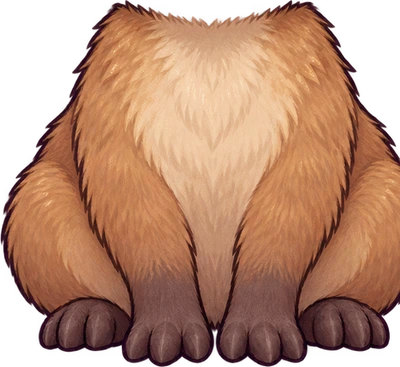
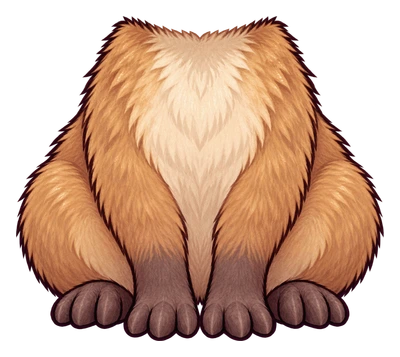
Restore complete Capybara, Quokka and Panda bodies with safe animation margins

diff --git a/CompanionArt.jsx b/CompanionArt.jsx
@@ -2,4 +2,4 @@ import artManifest from './public/companions-v2/art-manifest.json';
 import {companions} from './adventure-model.mjs';
 import React from 'react';
 const base='/companions-v2/';
-export default function CompanionArt({kind='bird',celebrate=false,finale=false,mood='milestone'}){const k=companions.includes(kind)?kind:'bird';return <span className={'journey-companion companion-rig mood-'+mood+' '+k+(celebrate?' celebrating':'')+(finale?' finale':'')} aria-hidden="true"><span className="companion-shadow"/><span className="companion-puppet">{k==='quokka'&&<span className="part tail"><img src={base+k+'-tail.webp?v='+artManifest.find(a=>a.file===k+'-tail.webp')?.sha256.slice(0,12)} alt=""/></span>}{!['capybara','guinea-pig','quokka'].includes(k)&&<img className="part tail" src={base+k+'-tail.webp?v='+artManifest.find(a=>a.file===k+'-tail.webp')?.sha256.slice(0,12)} alt=""/>}<img className="part body" src={base+k+'-body.webp'} alt=""/>{k==='bird'&&<img className="part wing" src={base+'bird-wing.webp'} alt=""/>}<span className="part head"><img className="eyes-open" src={base+k+'-head.webp'} alt=""/>{k!=='bird'&&<img className="eyes-happy" src={base+k+'-head-happy.webp'} alt=""/>}</span></span>{(finale||mood==='delight')&&<span className="companion-stars">✧ ✦ ✧</span>}{finale&&<span className="companion-confetti">{Array.from({length:12},(_,i)=><i key={i} style={{'--spark':i}}/>)}</span>}</span>}
+export default function CompanionArt({kind='bird',celebrate=false,finale=false,mood='milestone'}){const k=companions.includes(kind)?kind:'bird';return <span className={'journey-companion companion-rig mood-'+mood+' '+k+(celebrate?' celebrating':'')+(finale?' finale':'')} aria-hidden="true"><span className="companion-shadow"/><span className="companion-puppet">{k==='quokka'&&<span className="part tail"><img src={base+k+'-tail.webp?v='+artManifest.find(a=>a.file===k+'-tail.webp')?.sha256.slice(0,12)} alt=""/></span>}{!['capybara','guinea-pig','quokka'].includes(k)&&<img className="part tail" src={base+k+'-tail.webp?v='+artManifest.find(a=>a.file===k+'-tail.webp')?.sha256.slice(0,12)} alt=""/>}<img className="part body" src={base+k+'-body.webp?v='+artManifest.find(a=>a.file===k+'-body.webp')?.sha256.slice(0,12)} alt=""/>{k==='bird'&&<img className="part wing" src={base+'bird-wing.webp'} alt=""/>}<span className="part head"><img className="eyes-open" src={base+k+'-head.webp'} alt=""/>{k!=='bird'&&<img className="eyes-happy" src={base+k+'-head-happy.webp'} alt=""/>}</span></span>{(finale||mood==='delight')&&<span className="companion-stars">✧ ✦ ✧</span>}{finale&&<span className="companion-confetti">{Array.from({length:12},(_,i)=><i key={i} style={{'--spark':i}}/>)}</span>}</span>}

diff --git a/adventure.css b/adventure.css
@@ -19,3 +19,5 @@
 
 /* Keep the same rump attachment, with the tip curving upward; wag around the hidden lower root. */
 .companion-rig.quokka .tail{left:6%;top:36%;width:40%;height:31%;transform-origin:67% 91%}.companion-rig.quokka .tail>img{width:100%;height:100%;object-fit:contain;transform:scaleX(-1);transform-origin:center}
+/* Reserve room for jumps and turns so the complete silhouette stays inside the reward stage. */
+.bond-stage{min-height:310px;padding:52px 16px 20px;box-sizing:border-box}.bond-stage .companion-rig{width:65%;max-width:180px;flex-shrink:0}
